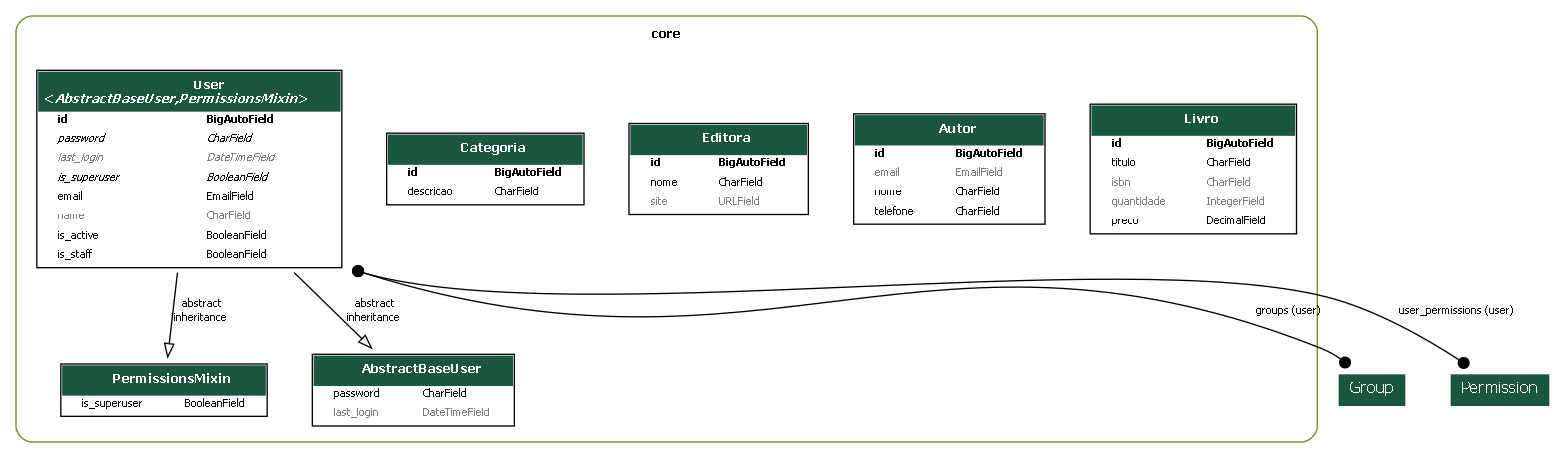
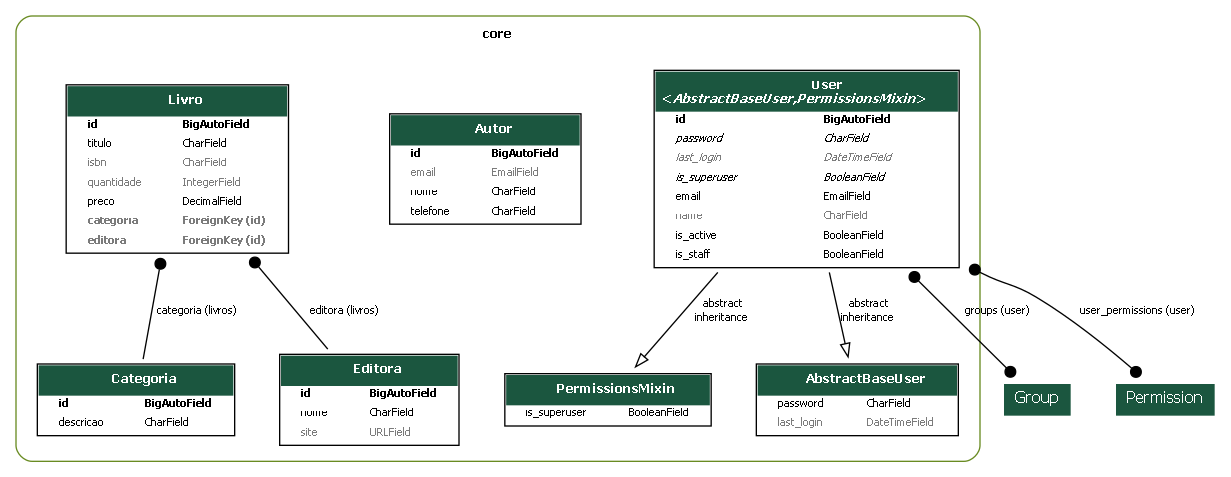
feat: inclusão do relacionamento de Livro com Categoria e Editora

Changed region(s): [[0.0, 0.0306, 1.0, 0.9782], [0.3396, 0.6725, 0.4939, 0.7031]]

diff --git a/core/migrations/0011_livro_categoria_livro_editora.py b/core/migrations/0011_livro_categoria_livro_editora.py
@@ -1,0 +1,24 @@
+# Generated by Django 5.2.15 on 2026-10-04 20:12
+
+import django.db.models.deletion
+from django.db import migrations, models
+
+
+class Migration(migrations.Migration):
+
+    dependencies = [
+        ('core', '0010_livro'),
+    ]
+
+    operations = [
+        migrations.AddField(
+            model_name='livro',
+            name='categoria',
+            field=models.ForeignKey(blank=True, null=True, on_delete=django.db.models.deletion.PROTECT, related_name='livros', to='core.categoria'),
+        ),
+        migrations.AddField(
+            model_name='livro',
+            name='editora',
+            field=models.ForeignKey(blank=True, null=True, on_delete=django.db.models.deletion.PROTECT, related_name='livros', to='core.editora'),
+        ),
+    ]

diff --git a/core/models/livro.py b/core/models/livro.py
@@ -1,11 +1,23 @@
 from django.db import models
 
+from core.models import Categoria, Editora
+
 
 class Livro(models.Model):
     titulo = models.CharField(max_length=255)
     isbn = models.CharField(max_length=32, null=True, blank=True)
     quantidade = models.IntegerField(default=0, null=True, blank=True)
     preco = models.DecimalField(max_digits=7, decimal_places=2, default=0)
+    categoria = models.ForeignKey(
+        Categoria,
+        on_delete=models.PROTECT,
+        related_name="livros",
+        null=True,
+        blank=True,
+    )
+    editora = models.ForeignKey(
+        Editora, on_delete=models.PROTECT, related_name="livros", null=True, blank=True
+    )
 
     def __str__(self):
         return self.titulo

diff --git a/app/urls.py b/app/urls.py
@@ -24,7 +24,7 @@ router.register(r'categorias', CategoriaViewSet, basename='categorias')
 router.register(r'usuarios', UserViewSet, basename='usuarios')
 router.register(r'editoras', EditoraViewSet, basename='editoras')
 router.register(r'autores', AutorViewSet, basename='autores')
-router.register(r'livros', AutorViewSet, basename='livros')
+router.register(r'livros', LivroViewSet, basename='livros')
 
 urlpatterns = [
     path('admin/', admin.site.urls),

diff --git a/core/serializers/livro.py b/core/serializers/livro.py
@@ -4,6 +4,6 @@ from rest_framework.serializers import ModelSerializer
 
 
 class LivroSerializer(ModelSerializer):
-    class meta:
-        model: Livro
+    class Meta:
+        model = Livro
         fields = "__all__"
